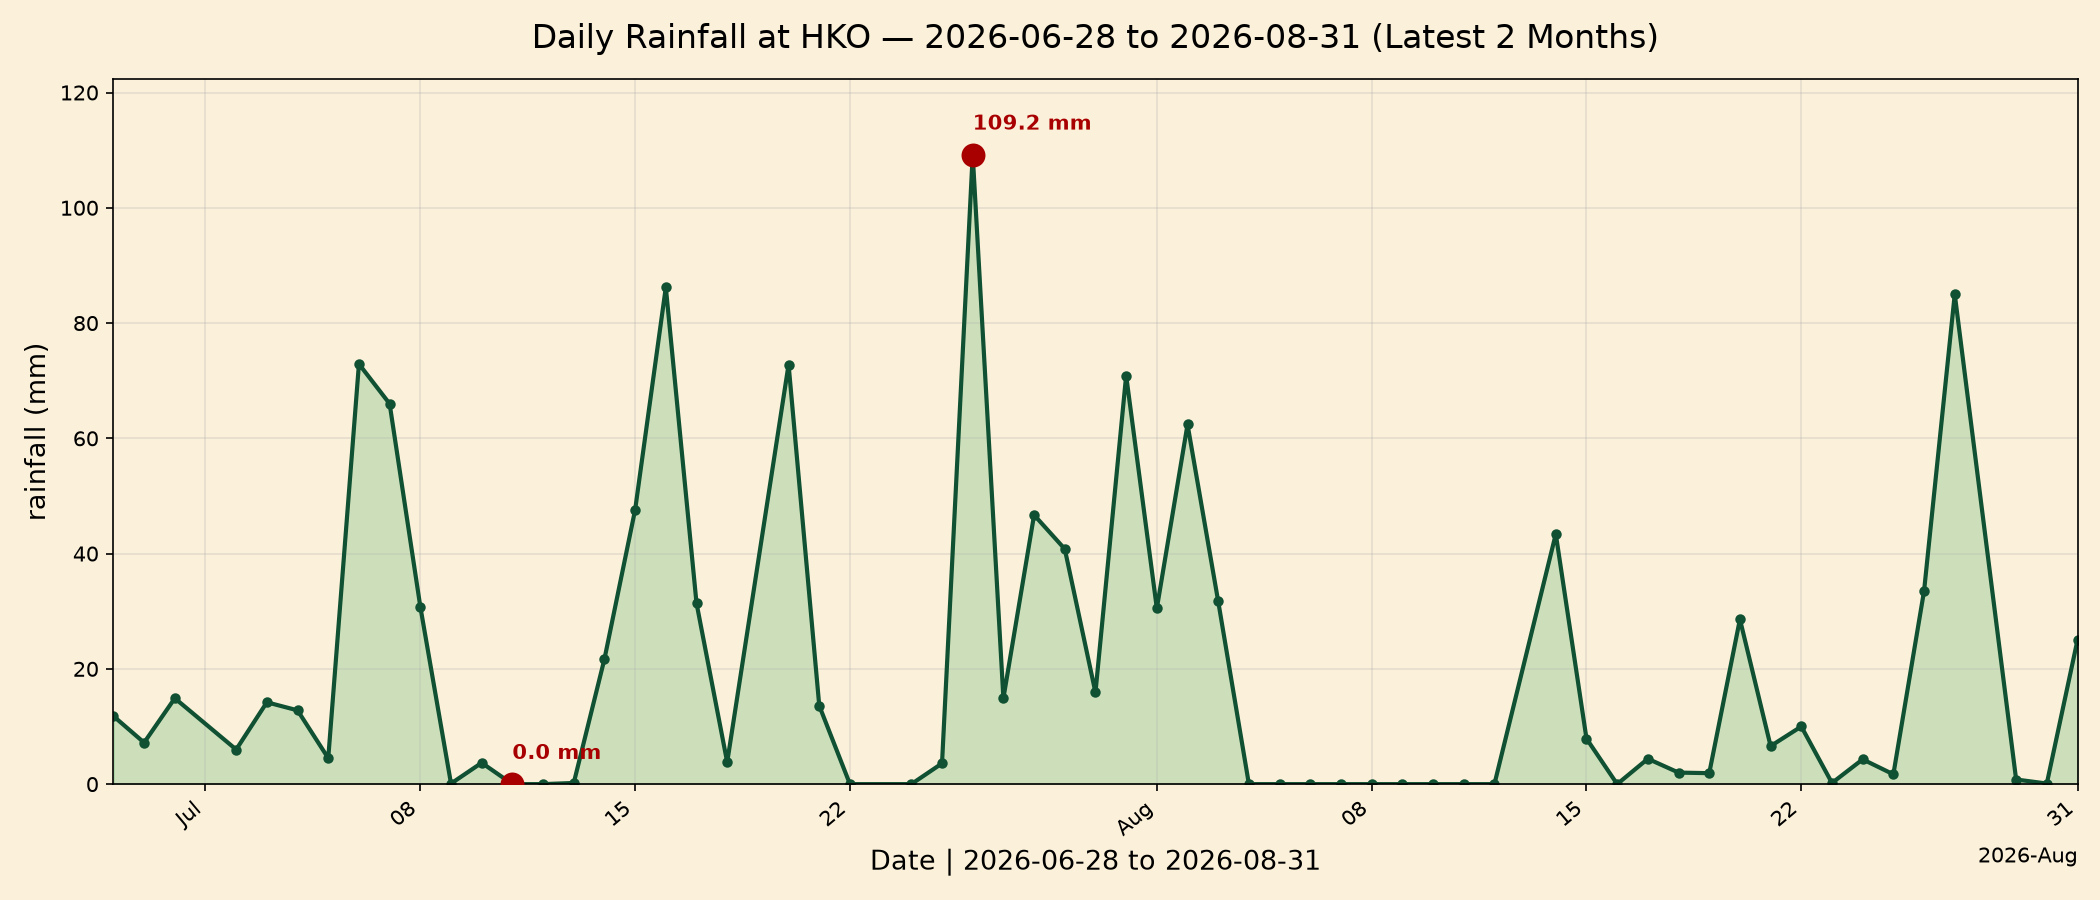
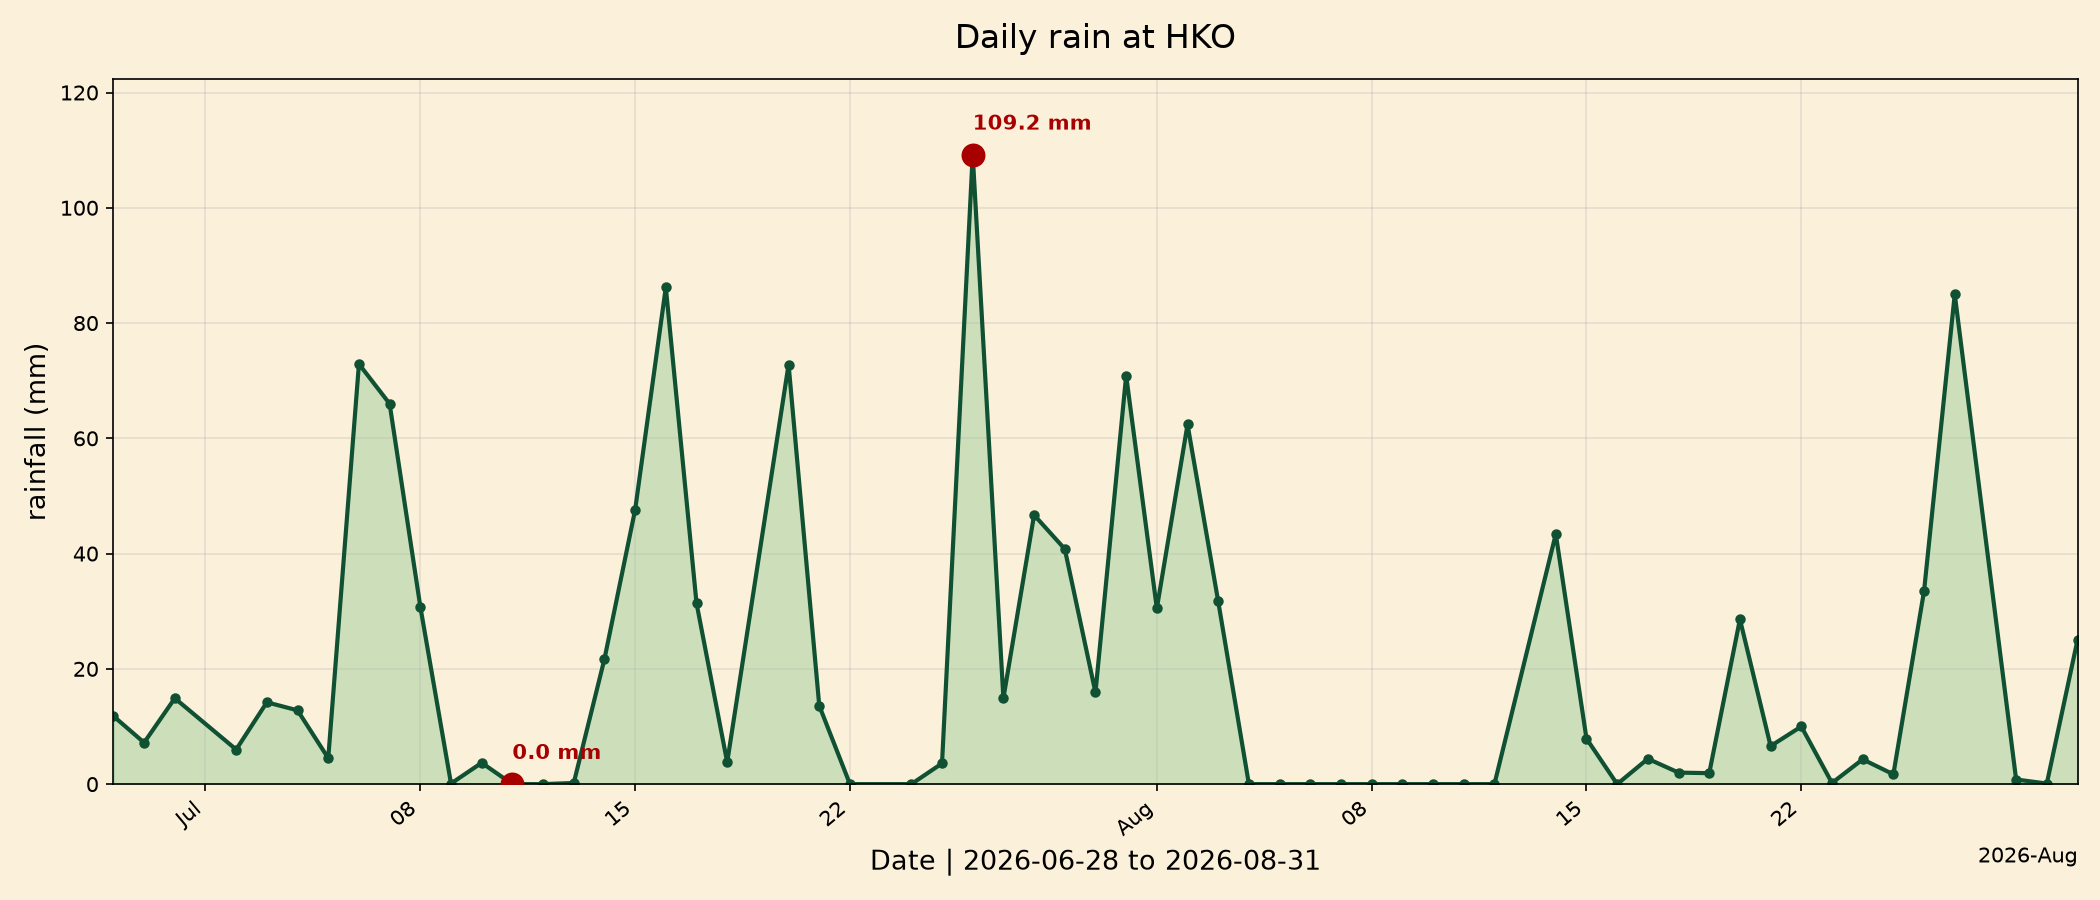
Fix x-axis tick disorder, simplify title to Daily rain at HKO

Changed region(s): [[0.2476, 0.0311, 0.8048, 0.0622]]

diff --git a/plot.py b/plot.py
@@ -5,6 +5,7 @@
 from pathlib import Path
 import csv
 import matplotlib.pyplot as plt
+import matplotlib.dates as mdates
 from datetime import datetime
 
 HERE = Path(__file__).parent
@@ -70,19 +71,18 @@ def main():
             f"{rainfall_mm[idx_low]:.1f} mm",
             color=highlight_red, fontsize=10, fontweight="bold")
 
-    ax.set_title(f"Daily Rainfall at HKO — {start_date} to {end_date} (Latest 2 Months)", fontsize=16, pad=15)
-    # X轴标题附带起止日期
+    # 标题改为只写 Daily rain at HKO
+    ax.set_title("Daily rain at HKO", fontsize=16, pad=15)
+    # X轴标签带上起止日期
     ax.set_xlabel(f"Date | {start_date} to {end_date}", fontsize=13)
     ax.set_ylabel("rainfall (mm)", fontsize=13)
     ax.grid(alpha=0.3)
 
-    # X轴刻度，强制包含最后一天，和其他日期一起显示
-    import matplotlib.dates as mdates
+    # 修复X轴日期刻度，自动生成，不会乱
     locator = mdates.AutoDateLocator(minticks=6, maxticks=12)
     formatter = mdates.ConciseDateFormatter(locator)
     ax.xaxis.set_major_locator(locator)
     ax.xaxis.set_major_formatter(formatter)
-    ax.set_xticks([*ax.get_xticks(), mdates.date2num(date_list[-1])])
 
     plt.setp(ax.get_xticklabels(), rotation=40, ha="right")
     ax.margins(x=0, y=0)
@@ -92,7 +92,7 @@ def main():
     plt.tight_layout()
     plt.savefig(img_path, dpi=150)
     plt.show()
-    print("✅ 2-month rainfall chart saved.")
+    print("✅ Chart saved.")
 
 if __name__ == "__main__":
     main()
